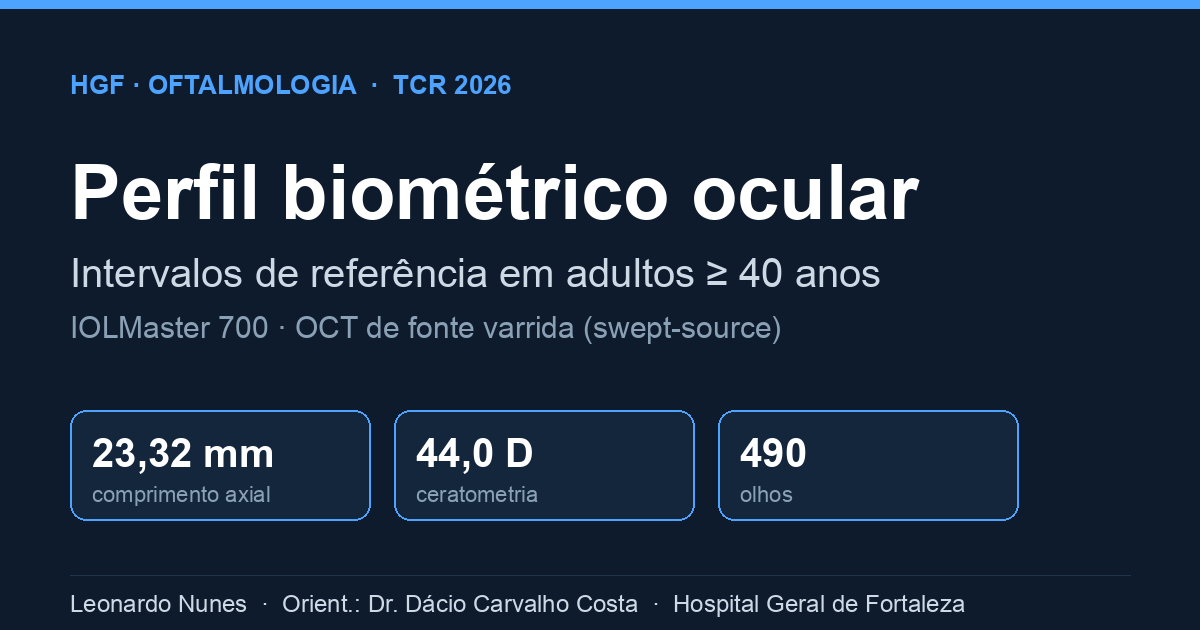
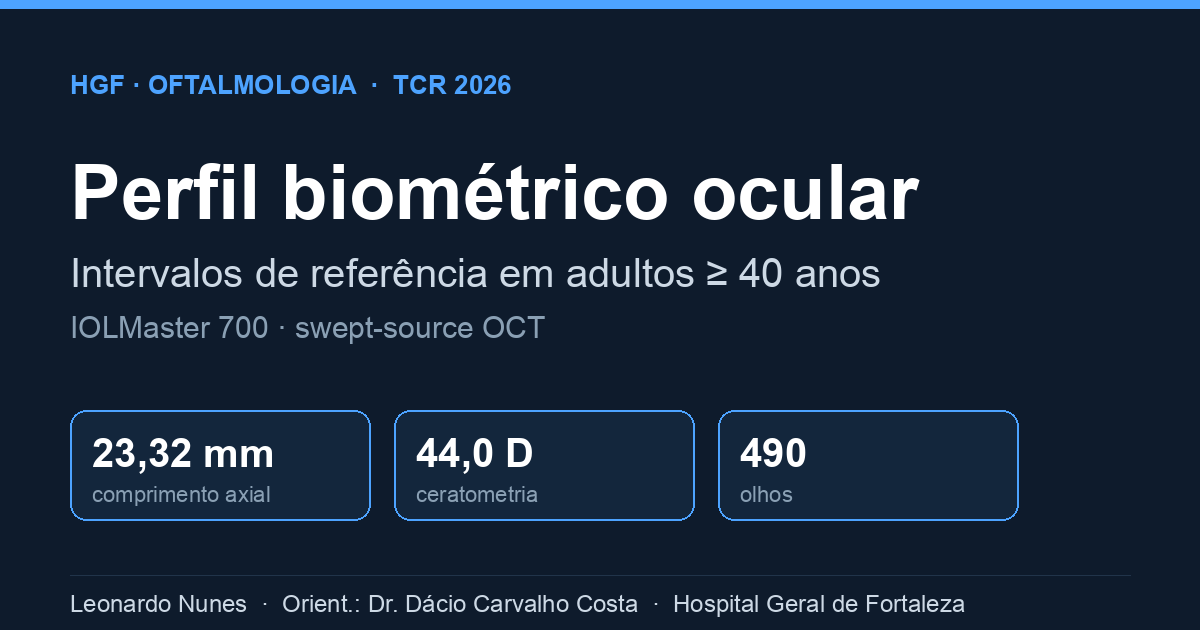
fix(seo): usa o termo original 'swept-source' (remove 'fonte varrida')

Changed region(s): [[0.2467, 0.4825, 0.6475, 0.5429]]

diff --git a/index.html b/index.html
@@ -5,7 +5,7 @@
   <meta name="viewport" content="width=device-width, initial-scale=1">
   <title>Perfil biométrico ocular e intervalos de referência — HGF</title>
   <script>(function(){var T="Perfil biométrico ocular e intervalos de referência — HGF";function s(){if(document.title!==T)document.title=T;}s();var n=0,iv=setInterval(function(){s();if(++n>80)clearInterval(iv);},200);document.addEventListener("DOMContentLoaded",s);window.addEventListener("load",s);try{new MutationObserver(s).observe(document,{childList:true});}catch(e){}})();</script>
-  <meta name="description" content="Estudo transversal do perfil biométrico ocular — comprimento axial, ceratometria, câmara anterior, cristalino e córnea — e intervalos de referência em adultos ≥ 40 anos, avaliados por OCT de fonte varrida (IOLMaster 700) em hospital terciário do Nordeste do Brasil.">
+  <meta name="description" content="Estudo transversal do perfil biométrico ocular — comprimento axial, ceratometria, câmara anterior, cristalino e córnea — e intervalos de referência em adultos ≥ 40 anos, avaliados por OCT swept-source (IOLMaster 700) em hospital terciário do Nordeste do Brasil.">
   <meta name="keywords" content="biometria ocular, comprimento axial, ceratometria, intervalos de referência, IOLMaster 700, OCT swept-source, catarata, cálculo de LIO, lente intraocular, Hospital Geral de Fortaleza, Fortaleza, oftalmologia, astigmatismo corneano">
   <meta name="author" content="Leonardo Nunes Bezerra Souza">
   <meta name="robots" content="index, follow">
@@ -15,7 +15,7 @@
   <meta property="og:type" content="website">
   <meta property="og:site_name" content="Perfil Biométrico Ocular · HGF">
   <meta property="og:title" content="Perfil biométrico ocular e intervalos de referência em adultos">
-  <meta property="og:description" content="Estudo transversal do perfil biométrico ocular — comprimento axial, ceratometria, câmara anterior, cristalino e córnea — e intervalos de referência em adultos ≥ 40 anos, avaliados por OCT de fonte varrida (IOLMaster 700) em hospital terciário do Nordeste do Brasil.">
+  <meta property="og:description" content="Estudo transversal do perfil biométrico ocular — comprimento axial, ceratometria, câmara anterior, cristalino e córnea — e intervalos de referência em adultos ≥ 40 anos, avaliados por OCT swept-source (IOLMaster 700) em hospital terciário do Nordeste do Brasil.">
   <meta property="og:url" content="https://leonunesbs.github.io/perfil-biometrico-ocular/">
   <meta property="og:image" content="https://leonunesbs.github.io/perfil-biometrico-ocular/og-image.png">
   <meta property="og:image:width" content="1200">
@@ -24,10 +24,10 @@
   <meta property="og:locale" content="pt_BR">
   <meta name="twitter:card" content="summary_large_image">
   <meta name="twitter:title" content="Perfil biométrico ocular e intervalos de referência em adultos">
-  <meta name="twitter:description" content="Estudo transversal do perfil biométrico ocular — comprimento axial, ceratometria, câmara anterior, cristalino e córnea — e intervalos de referência em adultos ≥ 40 anos, avaliados por OCT de fonte varrida (IOLMaster 700) em hospital terciário do Nordeste do Brasil.">
+  <meta name="twitter:description" content="Estudo transversal do perfil biométrico ocular — comprimento axial, ceratometria, câmara anterior, cristalino e córnea — e intervalos de referência em adultos ≥ 40 anos, avaliados por OCT swept-source (IOLMaster 700) em hospital terciário do Nordeste do Brasil.">
   <meta name="twitter:image" content="https://leonunesbs.github.io/perfil-biometrico-ocular/og-image.png">
   <meta name="twitter:image:alt" content="Perfil biométrico ocular — HGF, TCR 2026">
-  <script type="application/ld+json">{"@context": "https://schema.org", "@type": "ScholarlyArticle", "headline": "Perfil biométrico ocular e intervalos de referência em adultos avaliados por OCT de fonte varrida", "inLanguage": "pt-BR", "datePublished": "2026", "author": {"@type": "Person", "name": "Leonardo Nunes Bezerra Souza"}, "contributor": {"@type": "Person", "name": "Dácio Carvalho Costa", "jobTitle": "Orientador"}, "publisher": {"@type": "Organization", "name": "Hospital Geral de Fortaleza"}, "about": ["biometria ocular", "comprimento axial", "ceratometria", "intervalos de referência", "IOLMaster 700", "catarata"], "url": "https://leonunesbs.github.io/perfil-biometrico-ocular/", "image": "https://leonunesbs.github.io/perfil-biometrico-ocular/og-image.png"}</script>
+  <script type="application/ld+json">{"@context": "https://schema.org", "@type": "ScholarlyArticle", "headline": "Perfil biométrico ocular e intervalos de referência em adultos avaliados por OCT swept-source", "inLanguage": "pt-BR", "datePublished": "2026", "author": {"@type": "Person", "name": "Leonardo Nunes Bezerra Souza"}, "contributor": {"@type": "Person", "name": "Dácio Carvalho Costa", "jobTitle": "Orientador"}, "publisher": {"@type": "Organization", "name": "Hospital Geral de Fortaleza"}, "about": ["biometria ocular", "comprimento axial", "ceratometria", "intervalos de referência", "IOLMaster 700", "catarata"], "url": "https://leonunesbs.github.io/perfil-biometrico-ocular/", "image": "https://leonunesbs.github.io/perfil-biometrico-ocular/og-image.png"}</script>
   <style>
     * { margin: 0; padding: 0; box-sizing: border-box; }
     body { background: #faf9f5; display: flex; align-items: center; justify-content: center; min-height: 100vh; font-family: -apple-system, BlinkMacSystemFont, sans-serif; }
